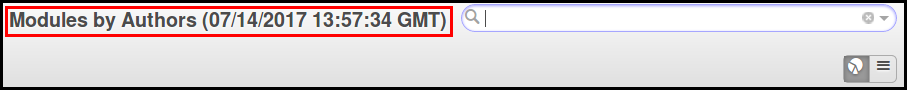
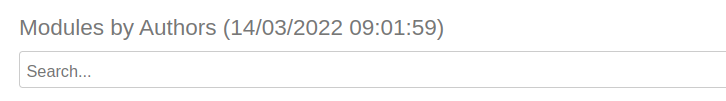
[12.0][IMP] bi_sql_editor: Datetime format and timezone configurable using ir.config_parameter.

diff --git a/bi_sql_editor/models/bi_sql_view.py b/bi_sql_editor/models/bi_sql_view.py
@@ -3,13 +3,14 @@
 # License AGPL-3.0 or later (http://www.gnu.org/licenses/agpl.html).
 
 import logging
+import pytz
 from datetime import datetime
-from psycopg2 import ProgrammingError
 
-from odoo import _, api, fields, models, SUPERUSER_ID
+from odoo import SUPERUSER_ID, _, api, fields, models
+from odoo.addons.base.models.ir_model import IrModel
 from odoo.exceptions import UserError
 from odoo.tools import pycompat, safe_eval, sql
-from odoo.addons.base.models.ir_model import IrModel
+from psycopg2 import ProgrammingError
 
 _logger = logging.getLogger(__name__)
 
@@ -512,7 +513,25 @@ class BiSQLView(models.Model):
             return self.name
         return "%s (%s)" % (
             self.name,
-            datetime.utcnow().strftime(_("%m/%d/%Y %H:%M:%S UTC")))
+            self._prepare_string_datetime())
+
+    @api.multi
+    def _prepare_string_datetime(self):
+        self.ensure_one()
+        tz_param = self.env["ir.config_parameter"].sudo().get_param(
+            "bi_sql_editor.tz", 'UTC')
+        time_format = self.env["ir.config_parameter"].sudo().get_param(
+            "bi_sql_editor.datetime_format", '%m/%d/%Y %H:%M:%S %Z')
+        try:
+            tz = pytz.timezone(tz_param)
+        except Exception:
+            tz = pytz.utc
+        try:
+            datetime.now().strftime(time_format)
+        except Exception:
+            time_format = "%m/%d/%Y %H:%M:%S %Z"
+        now = datetime.now(tz)
+        return now.strftime(time_format)
 
     @api.multi
     def _prepare_menu(self):

diff --git a/bi_sql_editor/README.rst b/bi_sql_editor/README.rst
@@ -116,6 +116,12 @@ To configure this module, you need to:
   .. figure:: https://raw.githubusercontent.com/OCA/reporting-engine/12.0/bi_sql_editor/static/description/04_materialized_view_setting.png
      :width: 800 px
 
+* To configure custom datetime format and timezone in action name,
+  set following ir.config_parameter:
+
+  .. figure:: ../static/description/07_ir_config_parameter.png
+     :width: 800 px
+
 * Finally, click on 'Create UI', to create new menu, action, graph view and
   search view.
 

diff --git a/bi_sql_editor/readme/CONFIGURE.rst b/bi_sql_editor/readme/CONFIGURE.rst
@@ -34,5 +34,11 @@ To configure this module, you need to:
   .. figure:: ../static/description/04_materialized_view_setting.png
      :width: 800 px
 
+* To configure custom datetime format and timezone in action name,
+  set following ir.config_parameter:
+
+  .. figure:: ../static/description/07_ir_config_parameter.png
+     :width: 800 px
+
 * Finally, click on 'Create UI', to create new menu, action, graph view and
   search view.
